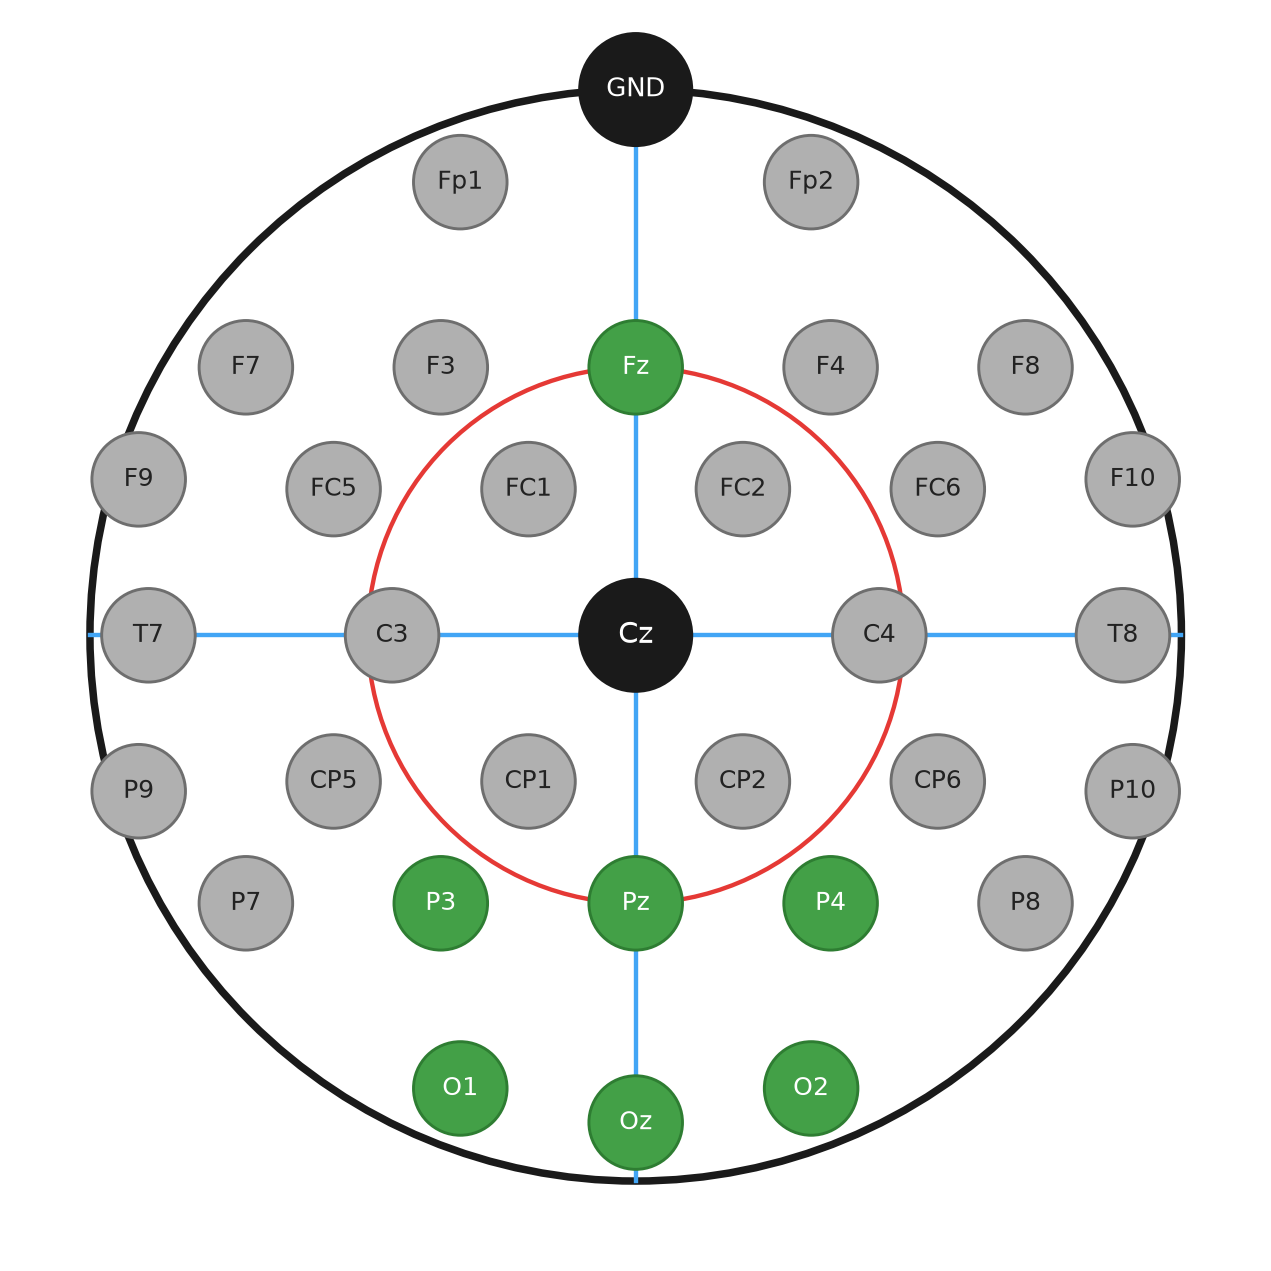
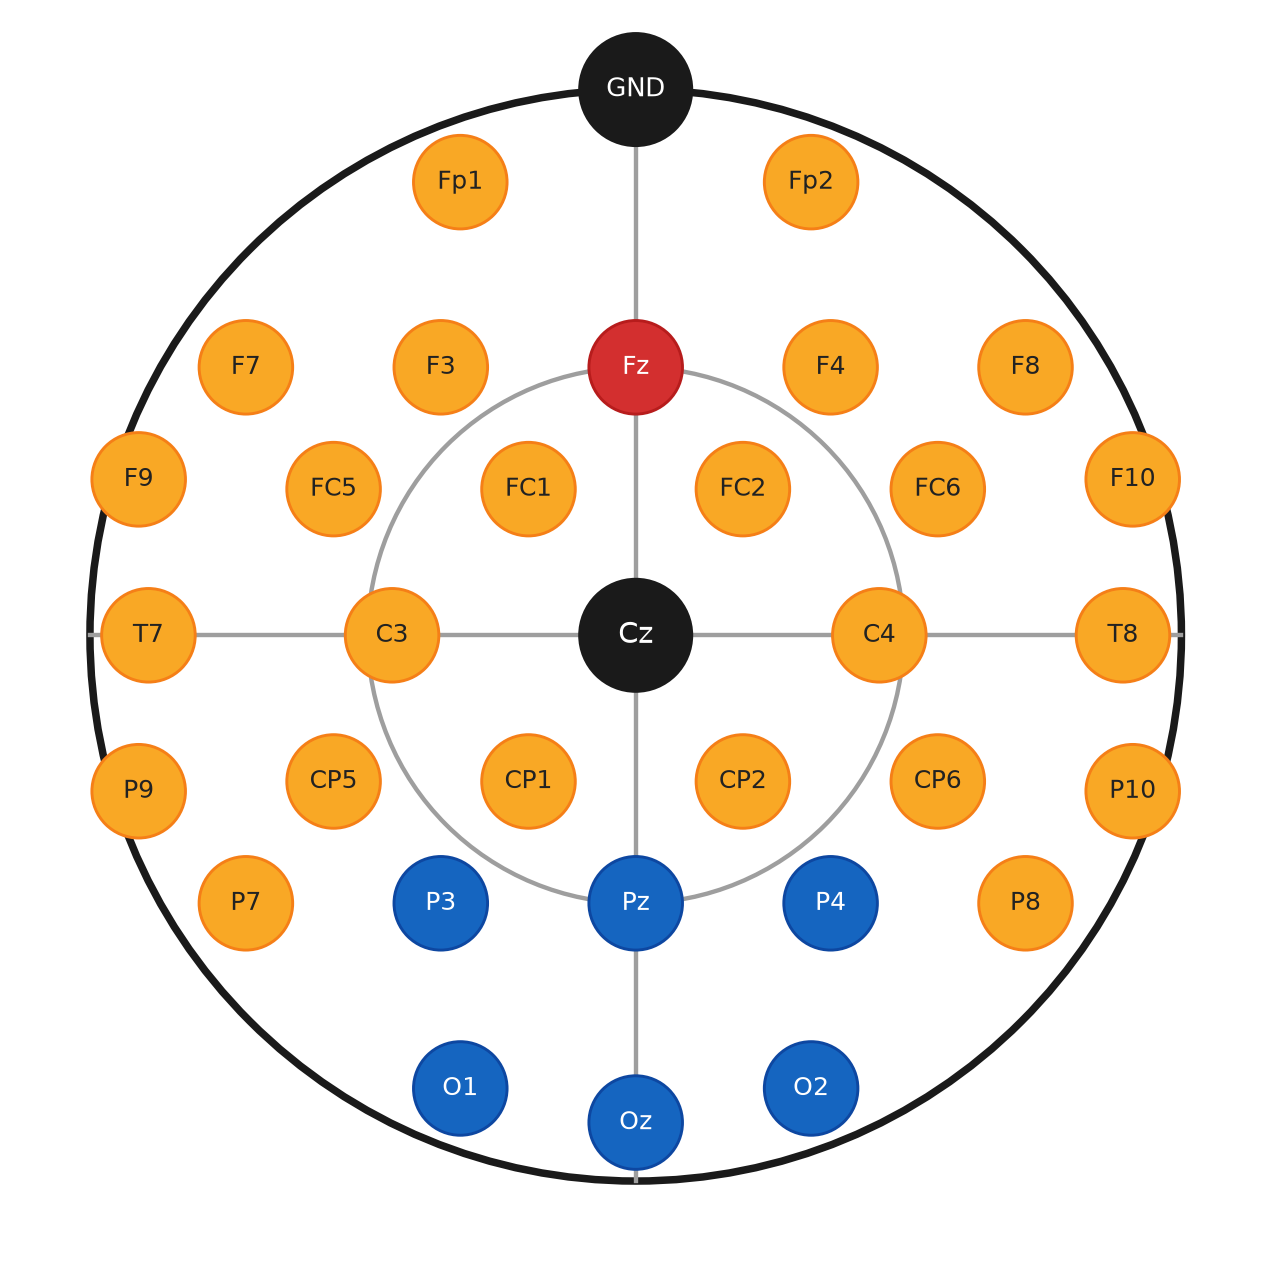
Recolour the montage discs red, blue, and yellow for contrast.

diff --git a/src/project/docs/eeg_montage/make_eeg_montage.py b/src/project/docs/eeg_montage/make_eeg_montage.py
@@ -1,14 +1,15 @@
 """Thesis montage in Sebastian's cap style, our 32-channel rules.
 
 Look: circular 10--20 schematic, labels inside the discs, GND / Cz as
-black discs, one green accent. Not a matplotlib scatter with a title.
+black discs. High-contrast fills: red Fz, blue posterior alpha, yellow
+other recorded.
 
 Rules (acquisition_contract.md):
 - 32 recorded actiCHamp labels
 - Fpz = ground, not recorded (drawn as GND)
 - Cz = online reference and recorded (drawn as the black centre disc)
-- Green = confirmatory sites: Fz (midline theta) and posterior alpha
-  (O1, Oz, O2, P3, Pz, P4)
+- Red = Fz (midline theta). Blue = posterior alpha
+  (O1, Oz, O2, P3, Pz, P4). Yellow = the other recorded channels.
 
 Do not put Sebastian's FT9/TP9 labels or his green set (Fp1/F3/O1…) back.
 """
@@ -67,14 +68,14 @@ RECORDED = (
     "Pz", "P3", "P7", "P9", "O1", "Oz", "O2", "P10", "P8", "P4", "CP2",
     "CP6", "T8", "C4", "Cz", "FC2", "FC6", "F10", "F8", "F4", "Fp2",
 )
-CONFIRM = {"Fz", "O1", "Oz", "O2", "P3", "Pz", "P4"}
+FZ = {"Fz"}
+POSTERIOR = {"O1", "Oz", "O2", "P3", "Pz", "P4"}
 
-GREEN = "#43A047"
-GREY = "#B0B0B0"
-GREY_EDGE = "#6E6E6E"
+RED = "#D32F2F"
+BLUE = "#1565C0"
+YELLOW = "#F9A825"
 BLACK = "#1A1A1A"
-RED = "#E53935"
-BLUE = "#42A5F5"
+RING = "#9E9E9E"
 INK = "#222222"
 
 
@@ -105,20 +106,23 @@ def main() -> None:
 
     head_r = 1.12
     ax.add_patch(Circle((0, 0), head_r, fill=False, edgecolor=BLACK, lw=1.8, zorder=1))
-    ax.add_patch(Circle((0, 0), 0.55, fill=False, edgecolor=RED, lw=1.05, zorder=1))
-    ax.plot([-head_r, head_r], [0, 0], color=BLUE, lw=1.05, zorder=1)
-    ax.plot([0, 0], [-head_r, head_r], color=BLUE, lw=1.05, zorder=1)
+    ax.add_patch(Circle((0, 0), 0.55, fill=False, edgecolor=RING, lw=1.05, zorder=1))
+    ax.plot([-head_r, head_r], [0, 0], color=RING, lw=1.05, zorder=1)
+    ax.plot([0, 0], [-head_r, head_r], color=RING, lw=1.05, zorder=1)
 
     r_ch, r_ref = 0.096, 0.118
     for name in RECORDED:
         if name == "Cz":
             continue
         xy = XY[name]
-        if name in CONFIRM:
-            disc(ax, xy, r_ch, GREEN, "#2E7D32", 0.7)
+        if name in FZ:
+            disc(ax, xy, r_ch, RED, "#B71C1C", 0.7)
+            label(ax, xy, name, "white", 6.1)
+        elif name in POSTERIOR:
+            disc(ax, xy, r_ch, BLUE, "#0D47A1", 0.7)
             label(ax, xy, name, "white", 6.1)
         else:
-            disc(ax, xy, r_ch, GREY, GREY_EDGE, 0.7)
+            disc(ax, xy, r_ch, YELLOW, "#F57F17", 0.7)
             label(ax, xy, name, INK, 6.1)
 
     disc(ax, XY["Cz"], r_ref, BLACK, BLACK, 0.0)

diff --git a/.agents/context/writing/2026-09-12-weekend-finish-board.md b/.agents/context/writing/2026-09-12-weekend-finish-board.md
@@ -49,7 +49,7 @@ Closed since that file was written: Goal 1–5, personality, demographics on Gol
 
 Still actually missing, or stale enough to bite a new agent:
 
-- Montage: Sebastian's cap style, our 32-ch rules (GND=Fpz, Cz=ref, green=Fz \(\theta\) + posterior \(\alpha\)). Generator `src/project/docs/eeg_montage/make_eeg_montage.py`. His original PNG is `eeg_montage_sebastian.png`.
+- Montage: Sebastian's cap style, our 32-ch rules (GND=Fpz, Cz=ref; red Fz \(\theta\), blue posterior \(\alpha\), yellow other). Generator `src/project/docs/eeg_montage/make_eeg_montage.py`. PDF is vector. His original PNG is `eeg_montage_sebastian.png`.
 - `2026-09-08-travel-and-delivery-calendar.md` “still owed” list is **wrong** (abstract/conclusion/8.2 stubs are gone). Live owed = this file.
 - Ch 1 still has one leftover company-welfare sentence (“advertisement t”). Catch it on the user-centric pass; do not expand the chapter.
 - `models.tex` still says exploratory families carry an FDR \(q\). BH is gone.

diff --git a/src/project/docs/eeg_montage/README.md b/src/project/docs/eeg_montage/README.md
@@ -6,6 +6,9 @@ Style is Sebastian's cap drawing. Channels and colours are ours.
 - Thesis include: `figures/preprocessing/eeg_montage.pdf` (`fig:eeg-montage`)
 - His original PNG is kept as `eeg_montage_sebastian.png` (not included)
 
-Rules: 32 XDF labels, GND = Fpz (not recorded), Cz = online reference,
-green = Fz \(\theta\) + posterior \(\alpha\) (O1 Oz O2 P3 Pz P4).
+Rules: 32 XDF labels, GND = Fpz (not recorded), Cz = online reference.
+Red = Fz \(\theta\). Blue = posterior \(\alpha\). Yellow = other recorded.
 Do not restore his FT9/TP9 labels or his green set.
+
+The PDF is the vector original (`savefig(..., format="pdf")`). The PNG
+is only a preview.
